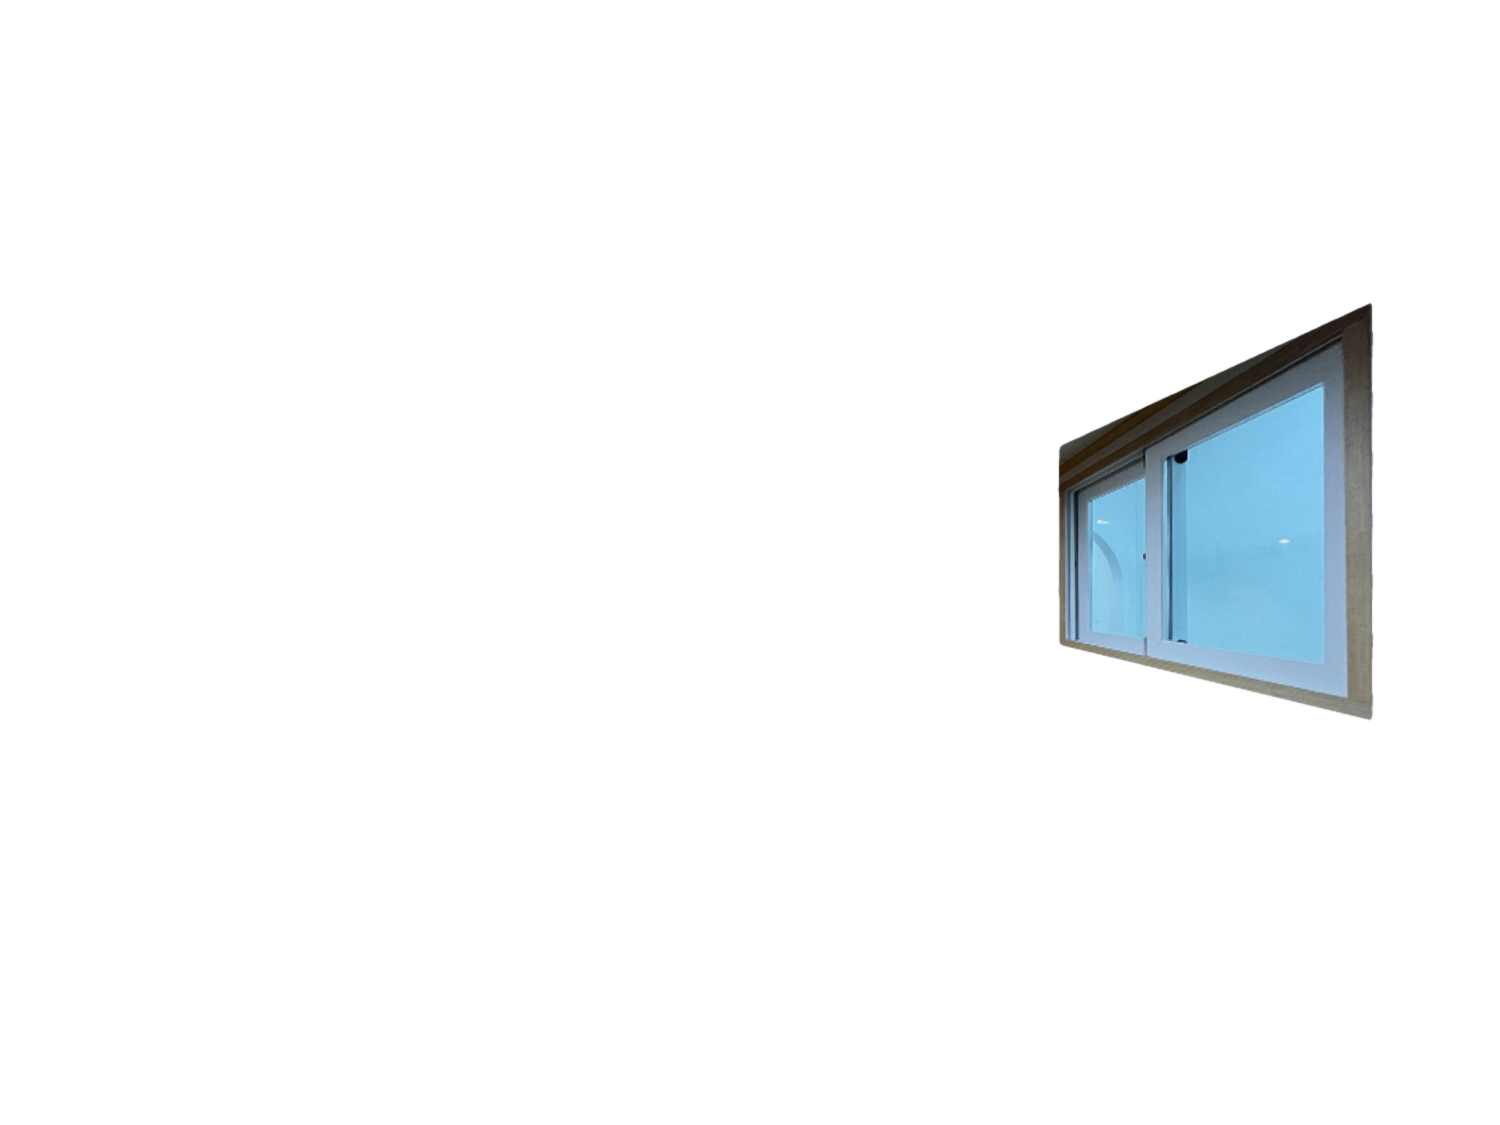
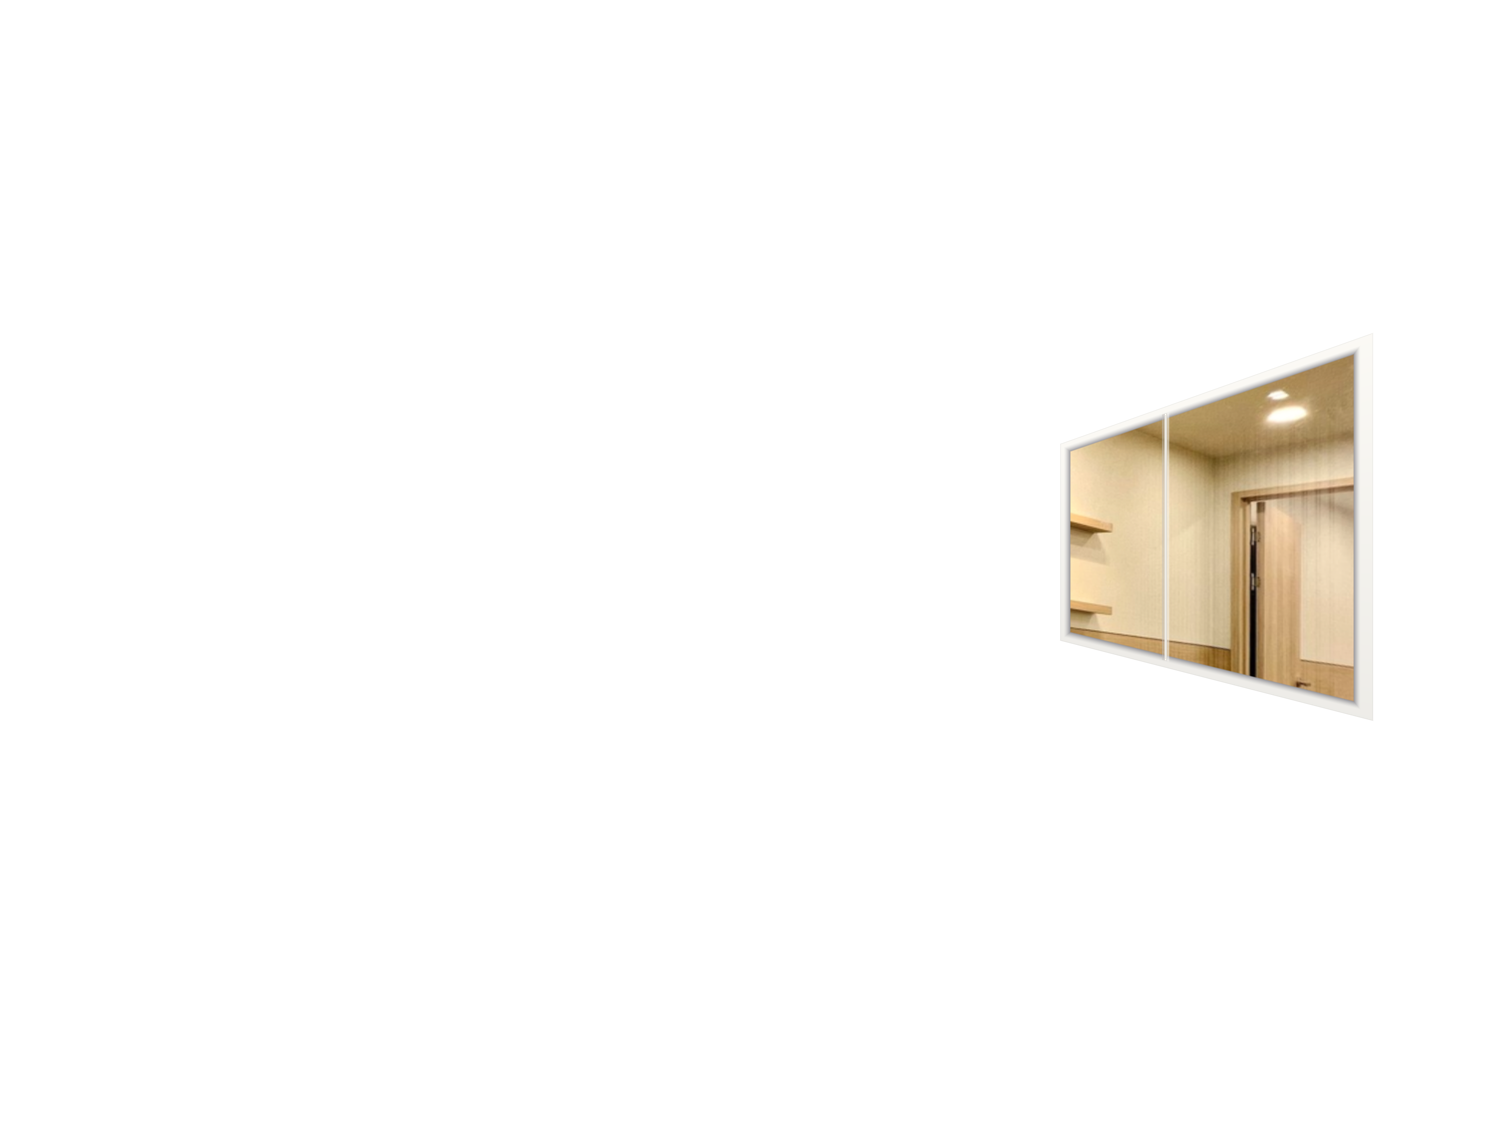
실사 내부 시창 정비: 600×800 프레임 폭 보정, 이중창을 깔끔한 2짝 창으로 재구성
- win-600: 벽면 기준 폭이 약 11% 좁아 프레임이 눌려 보이던 것을 600×800 비율로 바로잡음
- win-double / win-double-back: 기존 흐릿한 파란 유리 대신 다른 시창과 같은 실내 뷰 + 중앙 샷시바로 재구성
- 프레임은 기존 build_win 방식(4x 슈퍼샘플링·해석적 프레임)으로 다시 그림

Changed region(s): [[0.7053, 0.2489, 0.92, 0.6533]]

diff --git a/assets/configurator.js b/assets/configurator.js
@@ -2927,10 +2927,10 @@ const PHOTO_LED = {
 };
 function preloadPhotoWins(){
   const map = {
-    '600x800': 'assets/win-600.png?v=8',
+    '600x800': 'assets/win-600.png?v=9',
     '800x800': 'assets/win-800.png?v=8',
     '1200x800': 'assets/win-1200.png?v=8',
-    'double1200': 'assets/win-double.png?v=8',
+    'double1200': 'assets/win-double.png?v=9',
     'rail_ceiling': 'assets/ceiling-rail.png?v=9',
     'slat_nocob': 'assets/slat-nocob.png?v=4',
     'side_left': 'assets/side-slat-left.webp?v=1',
@@ -2939,7 +2939,7 @@ function preloadPhotoWins(){
     'back_600x800': 'assets/win-600x800-back.png?v=4',
     'back_800x800': 'assets/win-800x800-back.png?v=4',
     'back_1200x800': 'assets/win-1200x800-back.png?v=4',
-    'back_double1200': 'assets/win-double-back.png?v=4',
+    'back_double1200': 'assets/win-double-back.png?v=5',
     'ceiling_clean': 'assets/ceiling-clean.webp?v=1',
     'side_light_left': 'assets/side-light-left.webp?v=1',
     'side_light_right': 'assets/side-light-right.webp?v=1',
